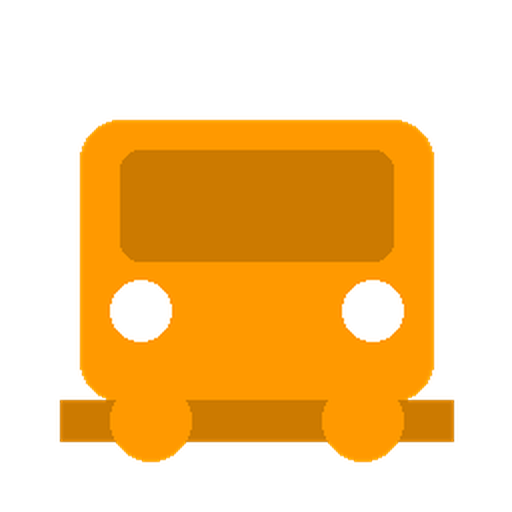
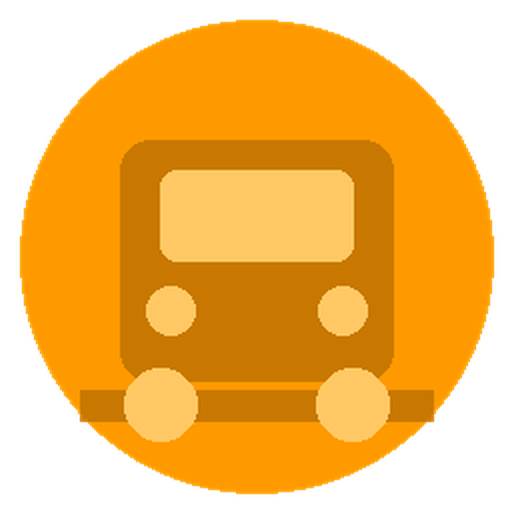
v2.0.8: Support comma-separated destination codes
- Parse destination filter as comma-separated list (e.g., "KGX,STP,CTK")
- Use client-side filtering when multiple destinations specified
- Improved integration icon with circular background
- Integration version: 2.2.3

diff --git a/custom_components/uk_train_departures/coordinator.py b/custom_components/uk_train_departures/coordinator.py
@@ -45,21 +45,46 @@ class TrainDeparturesCoordinator(DataUpdateCoordinator[list[TrainService]]):
         self.api = api
         self.station_crs = station_crs
         self.num_departures = num_departures
-        self.destination_crs = destination_crs
+        # Parse comma-separated destination codes
+        self.destination_list: list[str] = []
+        if destination_crs:
+            self.destination_list = [d.strip().upper() for d in destination_crs.split(',') if d.strip()]
         self.watched_trains = watched_trains or []
         self.watched_train_data: dict[str, TrainService | None] = {}
 
     async def _async_update_data(self) -> list[TrainService]:
         """Fetch data from the Darwin API."""
         try:
-            # Fetch more rows if we have watched trains to find
-            rows_to_fetch = max(self.num_departures, 20) if self.watched_trains else self.num_departures
+            # Fetch more rows to allow for client-side filtering
+            rows_to_fetch = max(self.num_departures, 20)
 
-            services = await self.api.async_get_departure_board(
+            # If multiple destinations, don't use API filter - we'll filter client-side
+            api_filter = None
+            if len(self.destination_list) == 1:
+                api_filter = self.destination_list[0]
+
+            all_services = await self.api.async_get_departure_board(
                 station_crs=self.station_crs,
                 num_rows=rows_to_fetch,
-                destination_crs=self.destination_crs,
+                destination_crs=api_filter,
             )
+
+            # Client-side filter by destination/calling points if multiple destinations
+            if len(self.destination_list) > 1:
+                filtered = []
+                for service in all_services:
+                    # Check if final destination matches any in list
+                    if service.destination_crs.upper() in self.destination_list:
+                        filtered.append(service)
+                        continue
+                    # Check if any calling point matches
+                    for cp in service.calling_points:
+                        if cp.crs.upper() in self.destination_list:
+                            filtered.append(service)
+                            break
+                services = filtered
+            else:
+                services = all_services
 
             # Find watched trains
             self.watched_train_data = {}

diff --git a/traintimes-addon/custom_components/uk_train_departures/coordinator.py b/traintimes-addon/custom_components/uk_train_departures/coordinator.py
@@ -45,21 +45,46 @@ class TrainDeparturesCoordinator(DataUpdateCoordinator[list[TrainService]]):
         self.api = api
         self.station_crs = station_crs
         self.num_departures = num_departures
-        self.destination_crs = destination_crs
+        # Parse comma-separated destination codes
+        self.destination_list: list[str] = []
+        if destination_crs:
+            self.destination_list = [d.strip().upper() for d in destination_crs.split(',') if d.strip()]
         self.watched_trains = watched_trains or []
         self.watched_train_data: dict[str, TrainService | None] = {}
 
     async def _async_update_data(self) -> list[TrainService]:
         """Fetch data from the Darwin API."""
         try:
-            # Fetch more rows if we have watched trains to find
-            rows_to_fetch = max(self.num_departures, 20) if self.watched_trains else self.num_departures
+            # Fetch more rows to allow for client-side filtering
+            rows_to_fetch = max(self.num_departures, 20)
 
-            services = await self.api.async_get_departure_board(
+            # If multiple destinations, don't use API filter - we'll filter client-side
+            api_filter = None
+            if len(self.destination_list) == 1:
+                api_filter = self.destination_list[0]
+
+            all_services = await self.api.async_get_departure_board(
                 station_crs=self.station_crs,
                 num_rows=rows_to_fetch,
-                destination_crs=self.destination_crs,
+                destination_crs=api_filter,
             )
+
+            # Client-side filter by destination/calling points if multiple destinations
+            if len(self.destination_list) > 1:
+                filtered = []
+                for service in all_services:
+                    # Check if final destination matches any in list
+                    if service.destination_crs.upper() in self.destination_list:
+                        filtered.append(service)
+                        continue
+                    # Check if any calling point matches
+                    for cp in service.calling_points:
+                        if cp.crs.upper() in self.destination_list:
+                            filtered.append(service)
+                            break
+                services = filtered
+            else:
+                services = all_services
 
             # Find watched trains
             self.watched_train_data = {}

diff --git a/traintimes-addon/CHANGELOG.md b/traintimes-addon/CHANGELOG.md
@@ -1,5 +1,11 @@
 # Changelog
 
+## 2.0.8
+
+- Support comma-separated destination CRS codes (e.g., "KGX,STP,CTK")
+- Client-side filtering for multiple destinations
+- Improved integration icon
+
 ## 2.0.7
 
 - Fix: Use Home Assistant's shared aiohttp session for API calls
